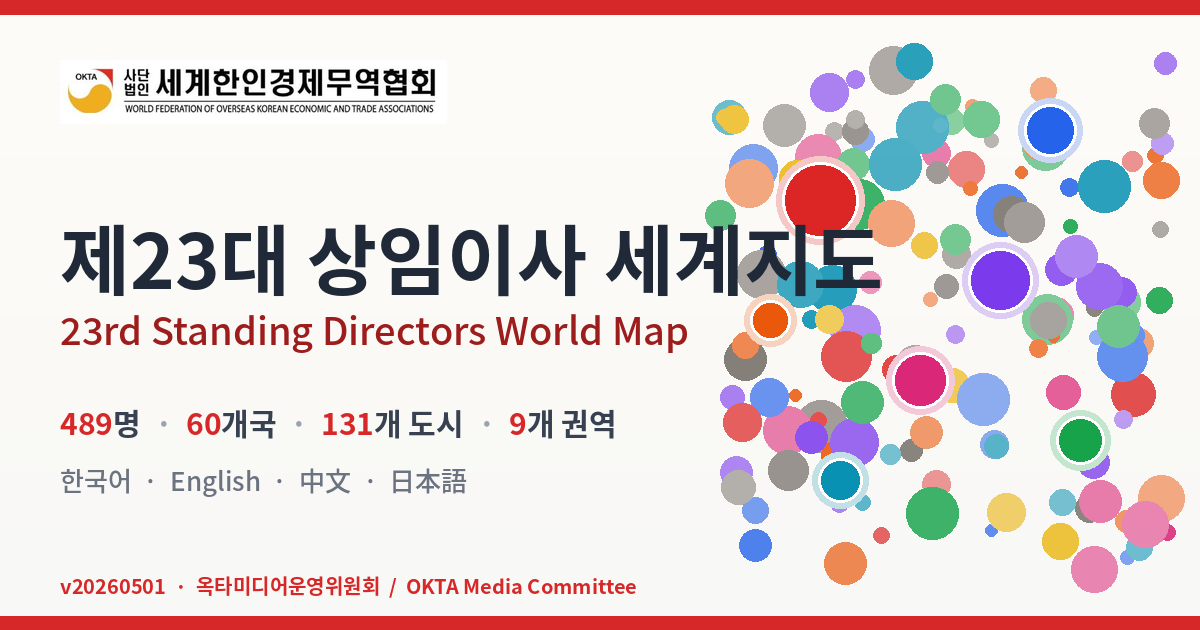
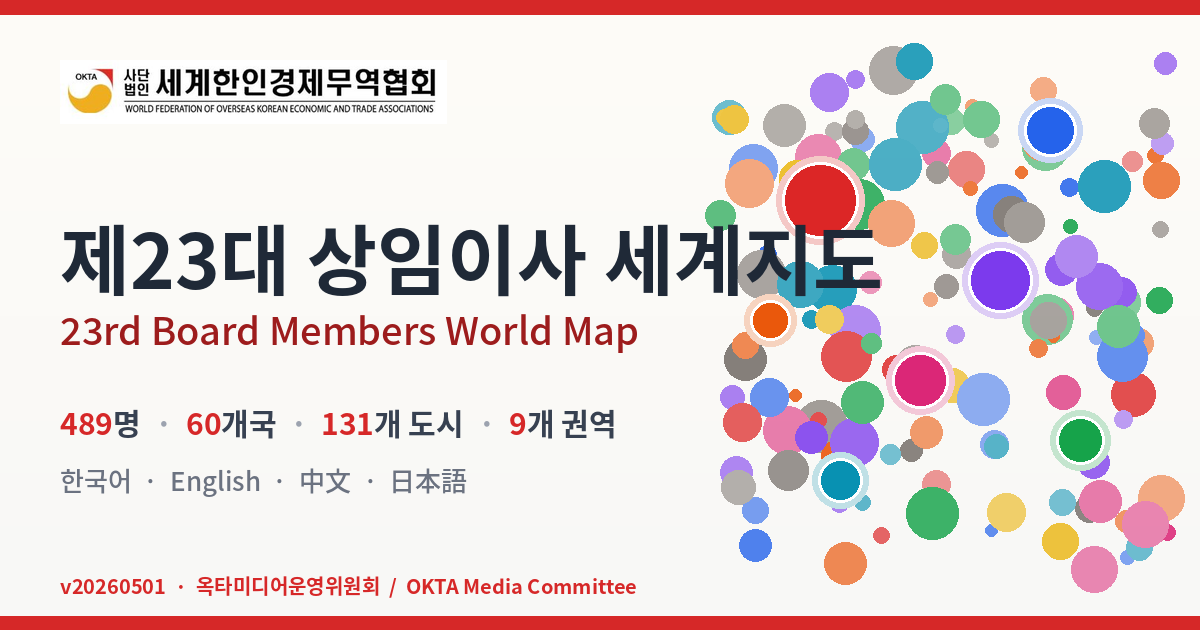
Add files via upload

Changed region(s): [[0.1233, 0.4825, 0.5858, 0.573]]

diff --git a/index.html b/index.html
@@ -299,9 +299,9 @@
[1 lines of base64/hex data omitted]
     <div class="header-divider"></div>
     <div class="title-block">
-      <h1 data-ko="제23대 상임이사 세계지도" data-en="23rd Standing Directors World Map" data-zh="第23届常任理事世界地图" data-ja="第23代常任理事世界地図">제23대 상임이사 세계지도</h1>
+      <h1 data-ko="제23대 상임이사 세계지도" data-en="23rd Board Members World Map" data-zh="第23届理事会世界地图" data-ja="第23代理事会世界地図">제23대 상임이사 세계지도</h1>
       <div class="sub-line">
-        <span class="sub" data-ko="2026-04-27 기준 · 489명 · 60개국 · 131개 도시" data-en="As of 2026-04-27 · 489 members · 60 countries · 131 cities" data-zh="截至2026-04-27 · 489人 · 60个国家 · 131个城市" data-ja="2026-04-27時点 · 489名 · 60ヶ国 · 131都市">2026-04-27 기준 · 489명 · 60개국 · 131개 도시</span>
+        <span class="sub" data-ko="2026-04-27 기준 · 489명 · 60개국 · 131개 도시" data-en="As of 2026-04-27 · 489 board members · 60 countries · 131 cities" data-zh="截至2026-04-27 · 489人 · 60个国家 · 131个城市" data-ja="2026-04-27時点 · 489名 · 60ヶ国 · 131都市">2026-04-27 기준 · 489명 · 60개국 · 131개 도시</span>
         <span class="sub-divider">·</span>
         <span class="credit-line">Created by <strong data-ko="옥타미디어운영위원회" data-en="OKTA Media Committee" data-zh="OKTA媒体运营委员会" data-ja="OKTAメディア運営委員会">옥타미디어운영위원회</strong> <span class="ver-tag">v20260501</span></span>
       </div>
